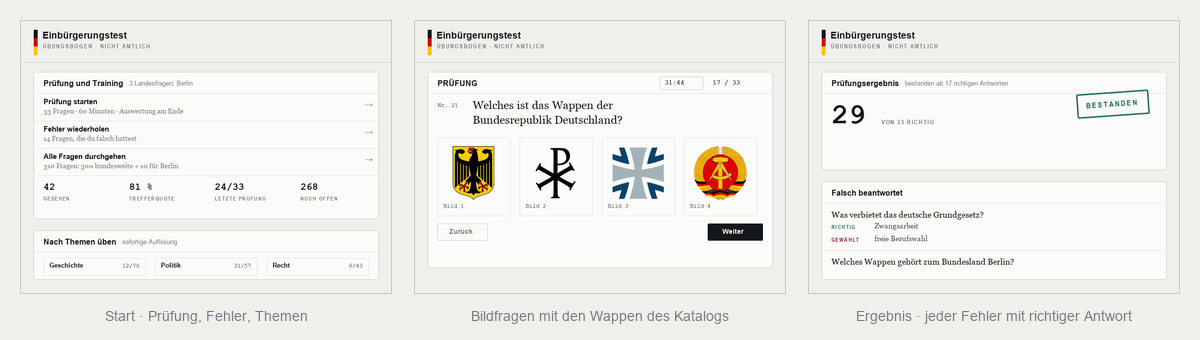
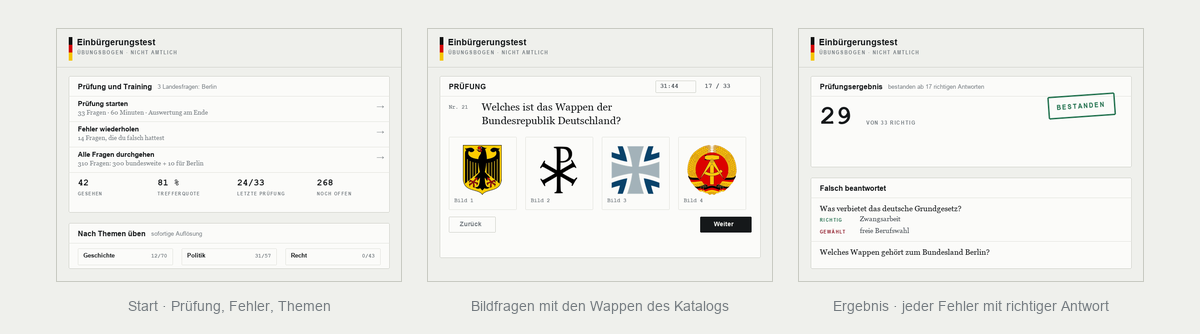
Streifen auf dieselbe Grundlinie wie das Titelbild
Der Streifen begann bei 20 px Rand, das Titelbild bei 56 - im README
standen die drei Bildschirme dadurch eingerückt gegenüber dem Bild
darüber. Jetzt teilt er dessen Breite und Ränder: die Kanten laufen
durch.

diff --git a/build/make_screens.py b/build/make_screens.py
@@ -135,16 +135,20 @@ img.save('screenshots/screen-3.png')
 CAPS = ('Start · Prüfung, Fehler, Themen',
         'Bildfragen mit den Wappen des Katalogs',
         'Ergebnis · jeder Fehler mit richtiger Antwort')
-SW, GAP, PAD, CAP = 372, 22, 20, 46
-strip = Image.new('RGB', (PAD * 2 + SW * 3 + GAP * 2, PAD + int(SW * H / W) + CAP), PAPER)
+# dieselbe Breite und dieselben Ränder wie das Titelbild (1200 px, 56 px
+# Rand), damit die Streifen im README auf einer Linie mit ihm sitzen
+CW, PAD, GAP, CAP = 1200, 56, 25, 52
+SW = (CW - 2 * PAD - 2 * GAP) // 3
+strip = Image.new('RGB', (CW, PAD // 2 + int(SW * H / W) + CAP), PAPER)
 sd = ImageDraw.Draw(strip)
 for i, name in enumerate(('screen-1', 'screen-2', 'screen-3')):
     im = Image.open(f'screenshots/{name}.png')
     im = im.resize((SW, int(SW * H / W)), Image.LANCZOS)
     x = PAD + i * (SW + GAP)
-    strip.paste(im, (x, PAD))
-    sd.rectangle([x, PAD, x + SW - 1, PAD + im.height - 1], outline=RULE)
+    top = PAD // 2
+    strip.paste(im, (x, top))
+    sd.rectangle([x, top, x + SW - 1, top + im.height - 1], outline=RULE)
     tw = sd.textlength(CAPS[i], ar(14))
-    sd.text((x + (SW - tw) / 2, PAD + im.height + 14), CAPS[i], font=ar(14), fill=INK3)
+    sd.text((x + (SW - tw) / 2, top + im.height + 16), CAPS[i], font=ar(14), fill=INK3)
 strip.save('screenshots/screens.png')
 print('screenshots/screen-1..3.png und screens.png geschrieben', strip.size)
